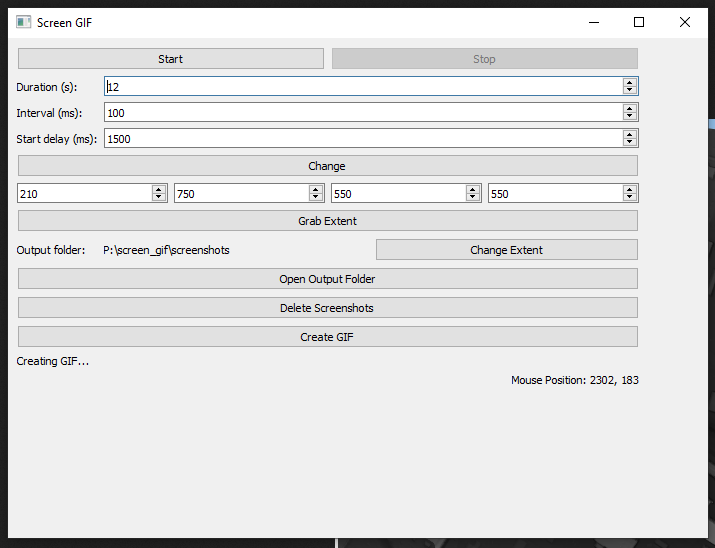
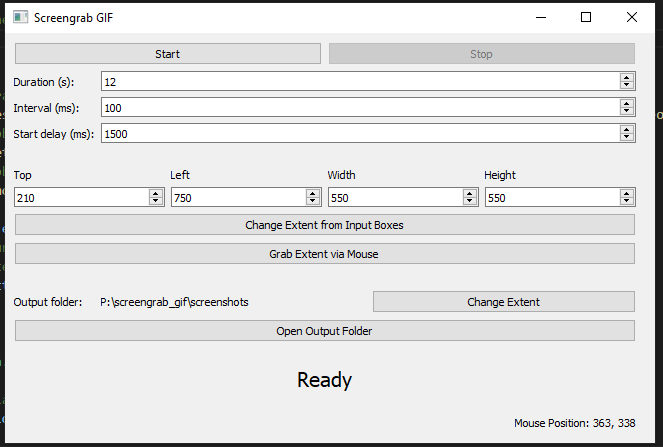
Cosmetics and remove unused buttons

diff --git a/screengrab_gif/ui_controls.py b/screengrab_gif/ui_controls.py
@@ -1,4 +1,5 @@
 from PyQt5.QtWidgets import QWidget, QHBoxLayout, QPushButton, QLabel, QSpinBox, QFormLayout
+from PyQt5.QtCore import Qt
 
 
 class UiControls(QWidget):
@@ -36,14 +37,16 @@ class UiControls(QWidget):
         self.start_delay_spinbox.setValue(self.settings.start_delay)
         self.layout.addRow("Start delay (ms):", self.start_delay_spinbox)
 
-        # Extent controls
-        # self.extent_label = QLabel()
-        # self.extent_label.setWordWrap(True)
-        # self.extent_label.setText("Extent: " + str(self.settings.capture_extent))
-        # # button to drag the extent
-        self.change_extent_button = QPushButton("Change")
-        # self.layout.addRow(self.extent_label, self.change_extent_button)
-        self.layout.addRow(self.change_extent_button)
+        # Add a row of space in between the time controls and the extent controls
+        self.layout.addRow(QLabel(" "))
+
+        # Add some labels to describe the extent controls
+        hBoxExtentLabels = QHBoxLayout()
+        hBoxExtentLabels.addWidget(QLabel("Top"))
+        hBoxExtentLabels.addWidget(QLabel("Left"))
+        hBoxExtentLabels.addWidget(QLabel("Width"))
+        hBoxExtentLabels.addWidget(QLabel("Height"))
+        self.layout.addRow(hBoxExtentLabels)
 
         # 4 elements: top, left, width, height
         self.extent_top_spinbox = QSpinBox()
@@ -73,40 +76,56 @@ class UiControls(QWidget):
         extentHBox.addWidget(self.extent_height_spinbox)
         self.layout.addRow(extentHBox)
 
+        self.change_extent_button = QPushButton("Change Extent from Input Boxes")
+        # self.layout.addRow(self.extent_label, self.change_extent_button)
+        self.layout.addRow(self.change_extent_button)
+
         # Button for grabbing the extent
-        self.grab_extent_button = QPushButton("Grab Extent")
+        self.grab_extent_button = QPushButton("Grab Extent via Mouse")
         self.layout.addRow(self.grab_extent_button)
+
+        # Add a row of space in between the extent controls and the folder controls
+        self.layout.addRow(QLabel(" "))
 
         # Folder controls
         self.screenshot_folder_label = QLabel(self.settings.screenshot_folder)
         self.screenshot_folder_label.setWordWrap(True)
         self.change_folder_button = QPushButton("Change Extent")
 
-        hbox = QHBoxLayout()
-        hbox.addWidget(self.screenshot_folder_label)
-        hbox.addWidget(self.change_folder_button)
-        self.layout.addRow("Output folder:", hbox)
+        hboxFolder = QHBoxLayout()
+        hboxFolder.addWidget(self.screenshot_folder_label)
+        hboxFolder.addWidget(self.change_folder_button)
+        self.layout.addRow("Output folder:", hboxFolder)
 
         self.open_folder_button = QPushButton("Open Output Folder")
         self.layout.addRow(self.open_folder_button)
 
-        self.delete_screenshots_button = QPushButton("Delete Screenshots")
-        self.layout.addRow(self.delete_screenshots_button)
+        # self.delete_screenshots_button = QPushButton("Delete Screenshots")
+        # self.layout.addRow(self.delete_screenshots_button)
 
-        self.create_gif_button = QPushButton("Create GIF")
-        self.layout.addRow(self.create_gif_button)
+        # self.create_gif_button = QPushButton("Create GIF")
+        # self.layout.addRow(self.create_gif_button)
+
+        # Add a row of space in between the folder controls and the info label
+        self.layout.addRow(QLabel(" "))
 
         # Info label
         self.info_label = QLabel("Ready")
+        # Centre and make big
+        self.info_label.setAlignment(Qt.AlignCenter)  # type: ignore
+        self.info_label.setStyleSheet("font-size: 20px")
         self.layout.addRow(self.info_label)
+
+        # Add a row of space in between the info label and the mouse position label
+        self.layout.addRow(QLabel(" "))
 
         # Label at the bottom for mouse x and y coordinates
         self.mouse_position_label = QLabel("Mouse position: n/a")
         # Put this on the right side
-        hbox = QHBoxLayout()
-        hbox.addStretch(1)
-        hbox.addWidget(self.mouse_position_label)
-        self.layout.addRow(hbox)
+        hboxMousePos = QHBoxLayout()
+        hboxMousePos.addStretch(1)
+        hboxMousePos.addWidget(self.mouse_position_label)
+        self.layout.addRow(hboxMousePos)
 
         # Set the layout
         self.setLayout(self.layout)

diff --git a/screengrab_gif/main_window.py b/screengrab_gif/main_window.py
@@ -25,8 +25,8 @@ class MainWindow(QMainWindow):
         self.ui_elements.stop_button.clicked.connect(self.stop_screenshots)
         self.ui_elements.change_folder_button.clicked.connect(self.change_folder)
         self.ui_elements.open_folder_button.clicked.connect(lambda: os.startfile(self.settings.screenshot_folder))
-        self.ui_elements.delete_screenshots_button.clicked.connect(self.delete_screenshots)
-        self.ui_elements.create_gif_button.clicked.connect(self.create_gif)
+        # self.ui_elements.delete_screenshots_button.clicked.connect(self.delete_screenshots)
+        # self.ui_elements.create_gif_button.clicked.connect(self.create_gif)
         self.ui_elements.change_extent_button.clicked.connect(lambda value: self.change_extent())
 
         # Track the mouse position
@@ -52,7 +52,7 @@ class MainWindow(QMainWindow):
         self.layout.addWidget(self.ui_elements)
 
         # Resize the window to fit the controls
-        self.resize(700, 500)
+        self.resize(650, 410)
 
     def start_capture_extent(self):
         # Resize the screen extent grabber layout to cover the entire screen

diff --git a/README.md b/README.md
@@ -1,6 +1,8 @@
 # screengrab_gif
 A bit like windows snipping tool, but captures gifs.
 
+Only works on Windows currently, to convert to other platforms only screenshotter.py needs to be changed.
+
 ## Installation
 ``` bash
 pip install screen-grab
@@ -11,7 +13,7 @@ If that doesn't work...
 # Set up a virtual environment
 mkdir .venv
 cd .venv
-path/to/python.exe -m venv .
+path\to\python.exe -m venv .
 # Activate the virtual environment
 .\Scripts\Activate.ps1
 # You may need to mess about with permissions, but this is more general virtual environment stuff
@@ -20,7 +22,7 @@ pip install pywin32
 pip install imageio
 pip install PyQt5
 # Run the program
-path/to/python.exe -m screen_grab
+path\to\python.exe -m screen_grab
 ```
 
 <!-- images -->
